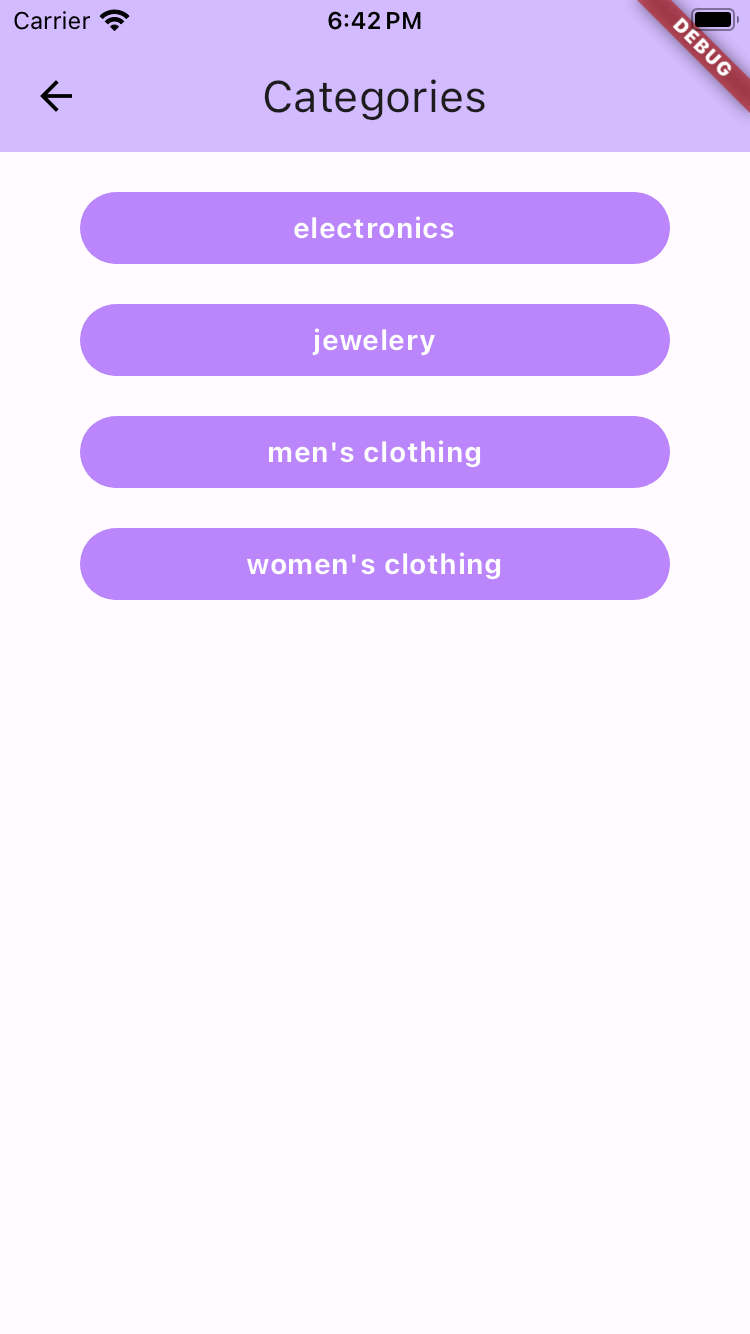
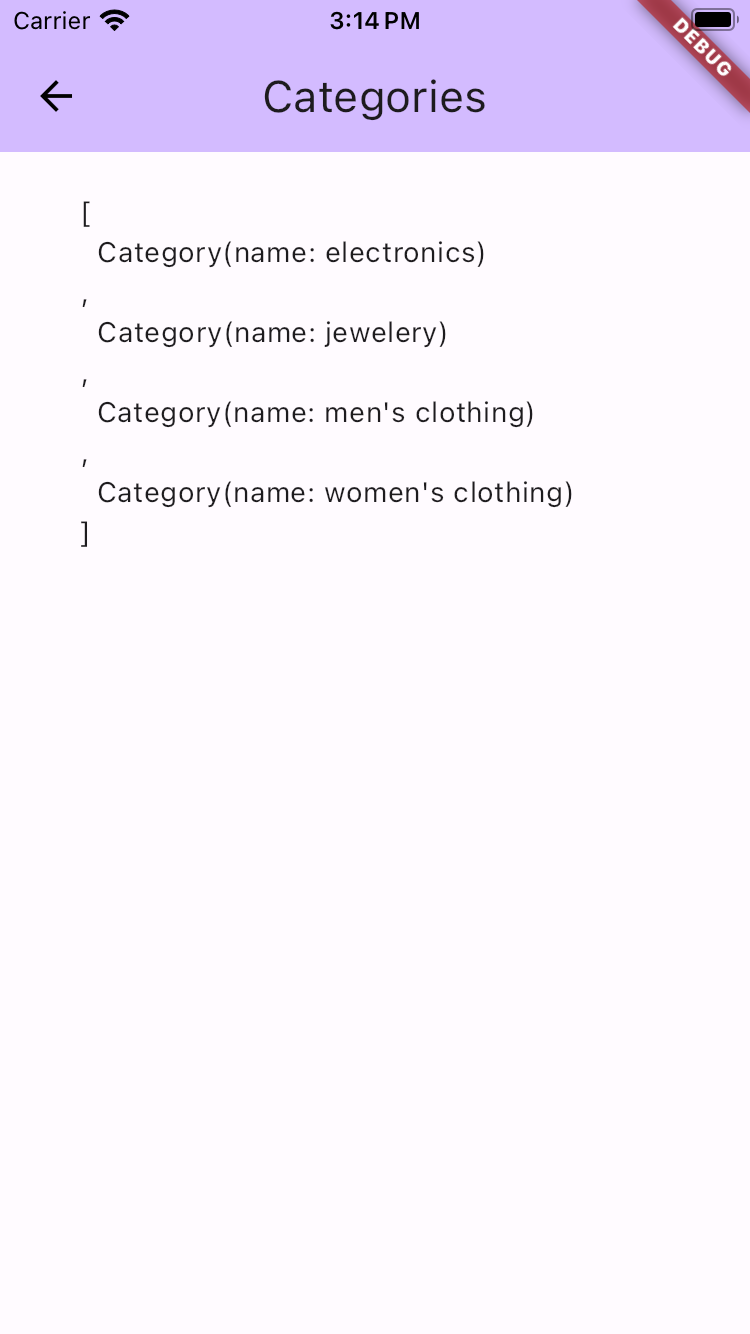
Changing the format in which the data is displayed

Changed region(s): [[0.092, 0.1229, 0.8893, 0.461], [0.4293, 0.0, 0.5827, 0.0307]]

diff --git a/example/lib/providers/main_provider.dart b/example/lib/providers/main_provider.dart
@@ -1,25 +1,43 @@
 import 'package:connect_fake_store/connect_fake_store.dart';
+import 'package:connect_fake_store/models/category_model.dart';
+import 'package:connect_fake_store/models/product_model.dart';
 import 'package:flutter/material.dart';
 
 import '../pages/categories_page.dart';
 import '../pages/products_page.dart';
 
-class HomeProvider with ChangeNotifier {
+class MainProvider with ChangeNotifier {
   bool _isLoading = false;
+  String _allProducts = '';
+  String _allCategories = '';
   final ConnectFakeStore _connectFakeStore = ConnectFakeStore();
 
   bool get isLoading => _isLoading;
+  String get allProducts => _allProducts;
+  String get allCategories => _allCategories;
 
   Future<void> getAllCategories({required BuildContext context}) async {
     _isLoading = true;
     notifyListeners();
     await _connectFakeStore.categoryController.getAllCategories();
+    
+    final List<CategoryModel> categories =
+        _connectFakeStore.categoryController.categories;
+    _allCategories = '';
+    _allCategories = '[\n';
+    for (int i = 0; i < categories.length; i++) {
+      _allCategories += '  ${categories[i]}\n';
+      if (i != categories.length - 1) {
+        _allCategories += ',\n';
+      }
+    }
+    _allCategories += ']';
     if (context.mounted) {
       Navigator.push(
           context,
           (MaterialPageRoute(
               builder: (context) => CategoriesPage(
-                    categories: _connectFakeStore.categoryController.categories,
+                    provider: this,
                   ))));
     }
     _isLoading = false;
@@ -29,13 +47,25 @@ class HomeProvider with ChangeNotifier {
   Future<void> getAllProducts({required BuildContext context}) async {
     _isLoading = true;
     notifyListeners();
+
     await _connectFakeStore.productController.getAllProducts();
+    final List<ProductModel> products =
+        _connectFakeStore.productController.products;
+    _allProducts = '';
+    _allProducts = '[\n';
+    for (int i = 0; i < products.length; i++) {
+      _allProducts += '  ${products[i]}\n';
+      if (i != products.length - 1) {
+        _allProducts += ',\n';
+      }
+    }
+    _allProducts += ']';
     if (context.mounted) {
       Navigator.push(
           context,
           (MaterialPageRoute(
               builder: (context) => ProductsPage(
-                    products: _connectFakeStore.productController.products,
+                    provider: this,
                   ))));
     }
     _isLoading = false;

diff --git a/example/lib/pages/categories_page.dart b/example/lib/pages/categories_page.dart
@@ -1,10 +1,10 @@
-import 'package:connect_fake_store/models/category_model.dart';
-import 'package:example/widgets/chip_widget.dart';
 import 'package:flutter/material.dart';
 
+import '../providers/main_provider.dart';
+
 class CategoriesPage extends StatelessWidget {
-  final List<CategoryModel> categories;
-  const CategoriesPage({Key? key, required this.categories}) : super(key: key);
+  final MainProvider provider;
+  const CategoriesPage({Key? key, required this.provider}) : super(key: key);
 
   @override
   Widget build(BuildContext context) {
@@ -19,18 +19,7 @@ class CategoriesPage extends StatelessWidget {
       ),
       body: Padding(
         padding: const EdgeInsets.symmetric(vertical: 20.0, horizontal: 40),
-        child: ListView.separated(
-          itemCount: categories.length,
-          separatorBuilder: (context, index) {
-            return const SizedBox(
-              height: 20,
-            );
-          },
-          itemBuilder: (context, index) {
-            final CategoryModel category = categories[index];
-            return ChipWidget(title: category.name);
-          },
-        ),
+        child: Text(provider.allCategories),
       ),
     );
   }

diff --git a/example/lib/pages/products_page.dart b/example/lib/pages/products_page.dart
@@ -1,11 +1,10 @@
-import 'package:connect_fake_store/models/product_model.dart';
 import 'package:flutter/material.dart';
 
-import '../widgets/products_grid_widget.dart';
+import '../providers/main_provider.dart';
 
 class ProductsPage extends StatelessWidget {
-  final List<ProductModel> products;
-  const ProductsPage({Key? key, required this.products}) : super(key: key);
+  final MainProvider provider;
+  const ProductsPage({Key? key, required this.provider}) : super(key: key);
 
   @override
   Widget build(BuildContext context) {
@@ -21,10 +20,8 @@ class ProductsPage extends StatelessWidget {
       body: Padding(
         padding: const EdgeInsets.symmetric(horizontal: 20),
         child: SingleChildScrollView(
-          child: ProductsGrid(
-            title: '',
-            // Retrieve products using the product provider
-            products: products,
+          child: Text(
+            provider.allProducts,
           ),
         ),
       ),

diff --git a/example/lib/main.dart b/example/lib/main.dart
@@ -40,18 +40,14 @@ class _MyHomePageState extends State<MyHomePage> {
   Widget build(BuildContext context) {
     return MultiProvider(
       providers: [
-        ChangeNotifierProvider(
-            create: (_) =>
-                HomeProvider()),
+        ChangeNotifierProvider(create: (_) => MainProvider()),
       ],
       child: Scaffold(
         appBar: AppBar(
           backgroundColor: Theme.of(context).colorScheme.inversePrimary,
           title: Text(widget.title),
         ),
-        body: const Center(
-          child: HomePage()
-        ),
+        body: const Center(child: HomePage()),
       ),
     );
   }

diff --git a/example/lib/pages/home_page.dart b/example/lib/pages/home_page.dart
@@ -10,8 +10,8 @@ class HomePage extends StatelessWidget {
 
   @override
   Widget build(BuildContext context) {
-    HomeProvider homeProvider =
-        Provider.of<HomeProvider>(context, listen: true);
+    MainProvider homeProvider =
+        Provider.of<MainProvider>(context, listen: true);
     return homeProvider.isLoading
         ? const LoaderWidget()
         : Padding(

diff --git a/lib/models/product_model.dart b/lib/models/product_model.dart
@@ -71,6 +71,6 @@ class ProductModel {
   /// Returns a string representation of the [ProductModel] instance.
   @override
   String toString() {
-    return 'Product(id: $id, name: $title, price: $price)';
+    return 'Product(\n id: $id, \n name: $title, \n price: $price \n)';
   }
 }

diff --git a/example/README.md b/example/README.md
@@ -8,8 +8,8 @@ The example consists of:
 
 - main.dart: Entry point of the Flutter application where MyApp and MyHomePage widgets are defined.
 - home_page.dart: Displays options to fetch categories and products using HomeProvider and Provider.
-- products_page.dart: Displays fetched products in a grid format using ProductsPage and ProductsGrid.
-- categories_page.dart: Displays fetched categories using CategoriesPage and ChipWidget.
+- products_page.dart: Displays fetched products in  ProductsPage.
+- categories_page.dart: Displays fetched categories using CategoriesPage.
 - main_provider.dart: Implements HomeProvider to manage state and fetch data using ConnectFakeStore.
 
 
